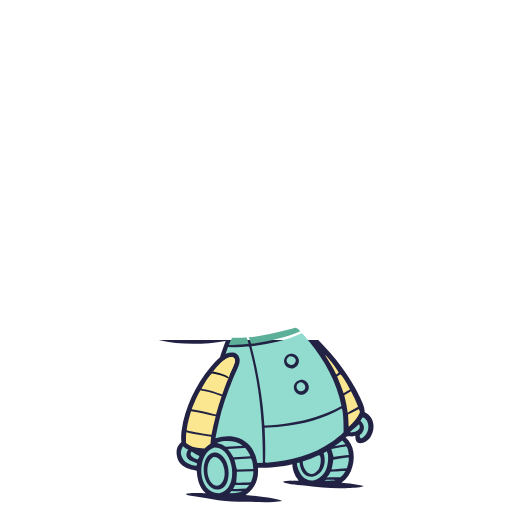
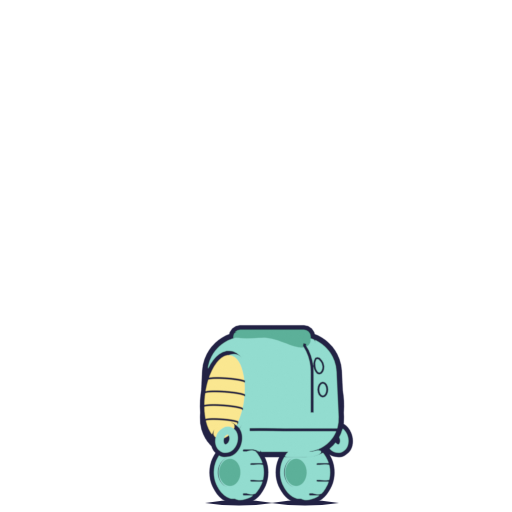
feat(splash): the rolling robot has Koba's new body
The splash screen's body layer is now the three-quarter body from the
game picture, and the spokes turn on its new wheel hubs.

Changed region(s): [[0.3125, 0.625, 0.75, 1.0]]

diff --git a/tool/robot/three_quarter.html b/tool/robot/three_quarter.html
@@ -5,8 +5,9 @@
      neck cut leaves out) over the 3D robot's body turned to match
      (body.png, branding/robot_body_three_quarter.png from
      tool/robot/render_body.py), so its body matches the front and back
-     pictures and the 3D robot. Run by branding/robot.sh, which screenshots
-     this page. -->
+     pictures and the 3D robot. With ?body it leaves the head out, for the
+     splash screen's body layer (assets/images/robot_body.png). Run by
+     branding/robot.sh, which screenshots this page. -->
 <html><head><style>html,body{margin:0;background:transparent}canvas{display:block}</style></head>
 <body><canvas id="out" width="512" height="512"></canvas><script>
 const load = (src) => new Promise((done) => {
@@ -36,6 +37,7 @@ Promise.all(["body.png", "head.png", "full.png"].map(load)).then(([body, head, f
     o.fill();
   }
   o.drawImage(body, 0, 0);
+  if (location.search.includes("body")) return;
   o.drawImage(head, 0, 0);
   // Left of the old neck (which starts at x = 224) the full drawing below the
   // cut is still helmet: put that corner back.

diff --git a/lib/features/splash/view/rolling_robot.dart b/lib/features/splash/view/rolling_robot.dart
@@ -151,11 +151,12 @@ class _Spokes extends CustomPainter {
     ..strokeWidth = 3.2
     ..strokeCap = StrokeCap.round;
 
-  /// Each hub's centre and radii in the picture: the near wheel is seen
-  /// at a slant, so its hub is an upright oval.
+  /// Each hub's centre and radii in the picture (the 3D robot's body at
+  /// 310°, from `branding/robot.sh`): both wheels are seen at a slant, so
+  /// their hubs are upright ovals.
   static const _hubs = [
-    (center: Offset(216, 471), radii: Offset(8, 13.5)),
-    (center: Offset(311.5, 464.5), radii: Offset(8.5, 8.5)),
+    (center: Offset(229, 472), radii: Offset(8.5, 11.5)),
+    (center: Offset(295.5, 472), radii: Offset(8, 11.5)),
   ];
 
   @override
